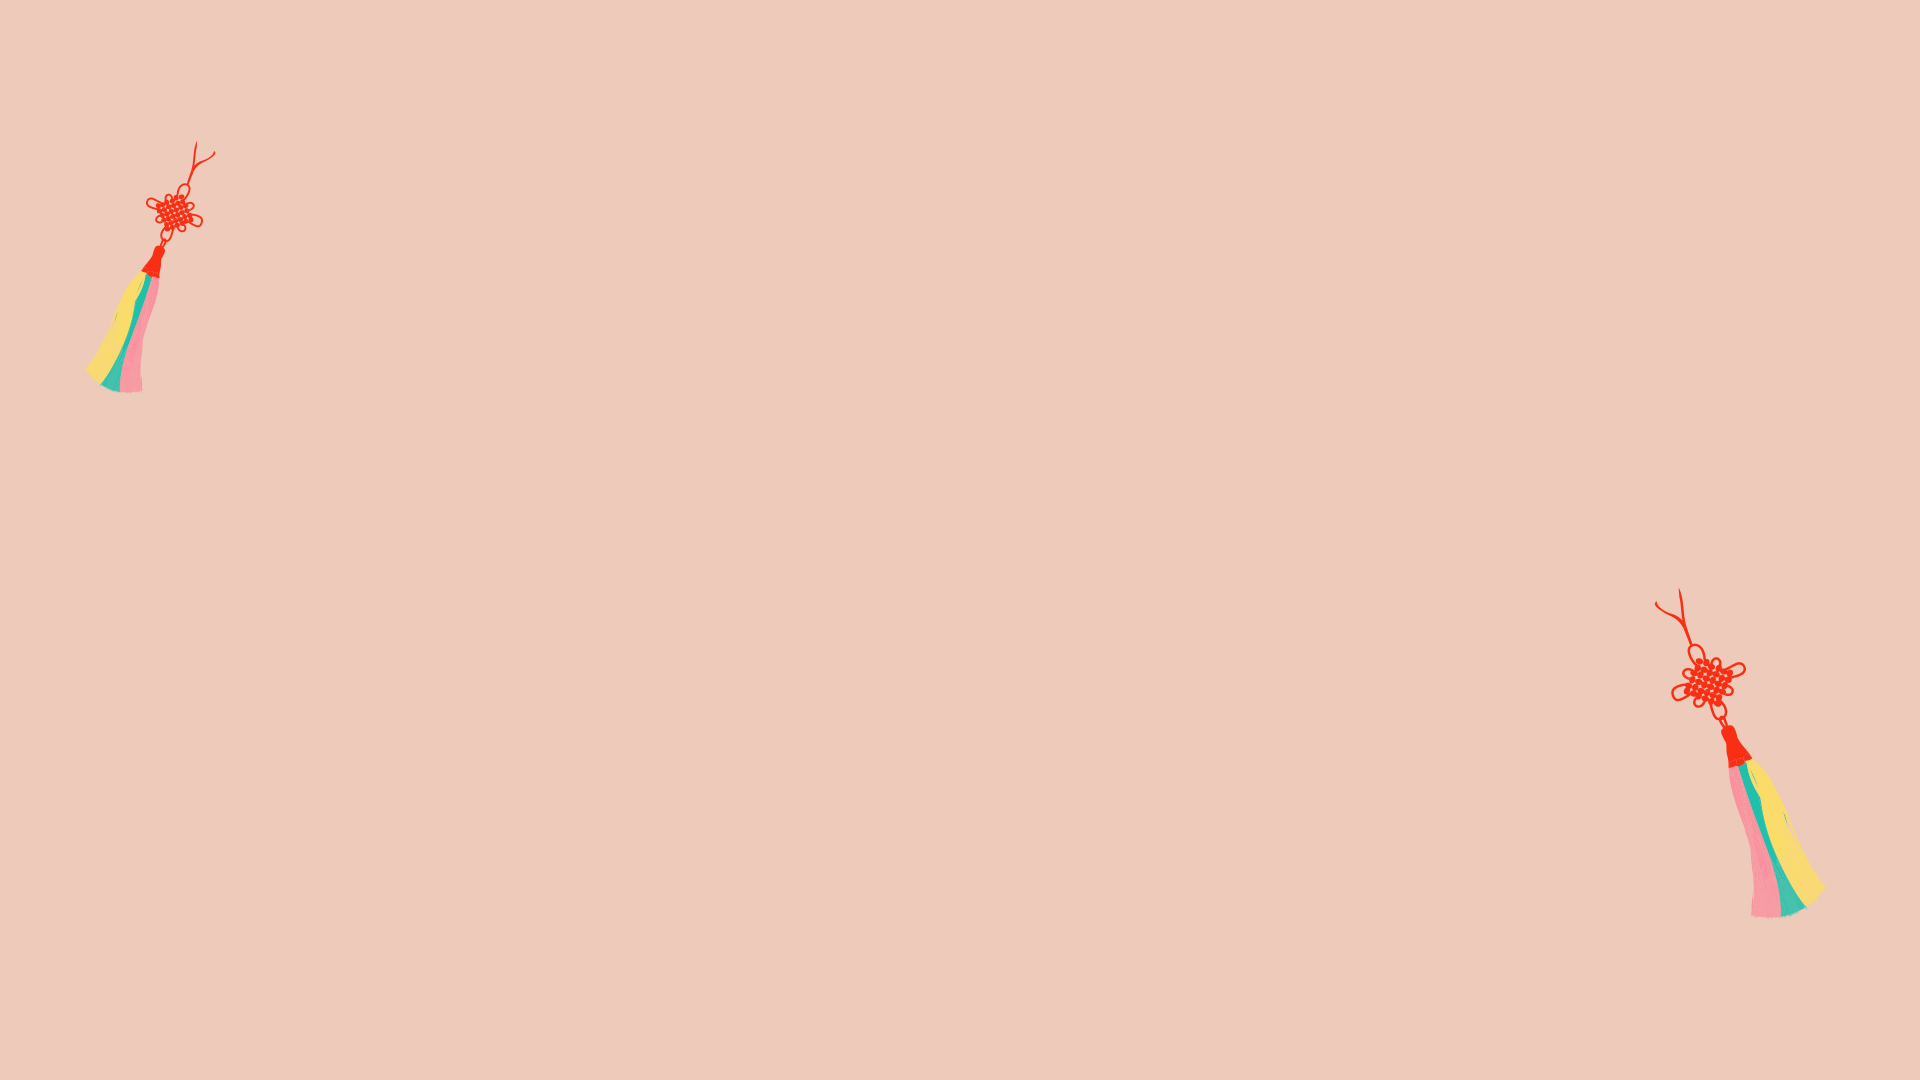
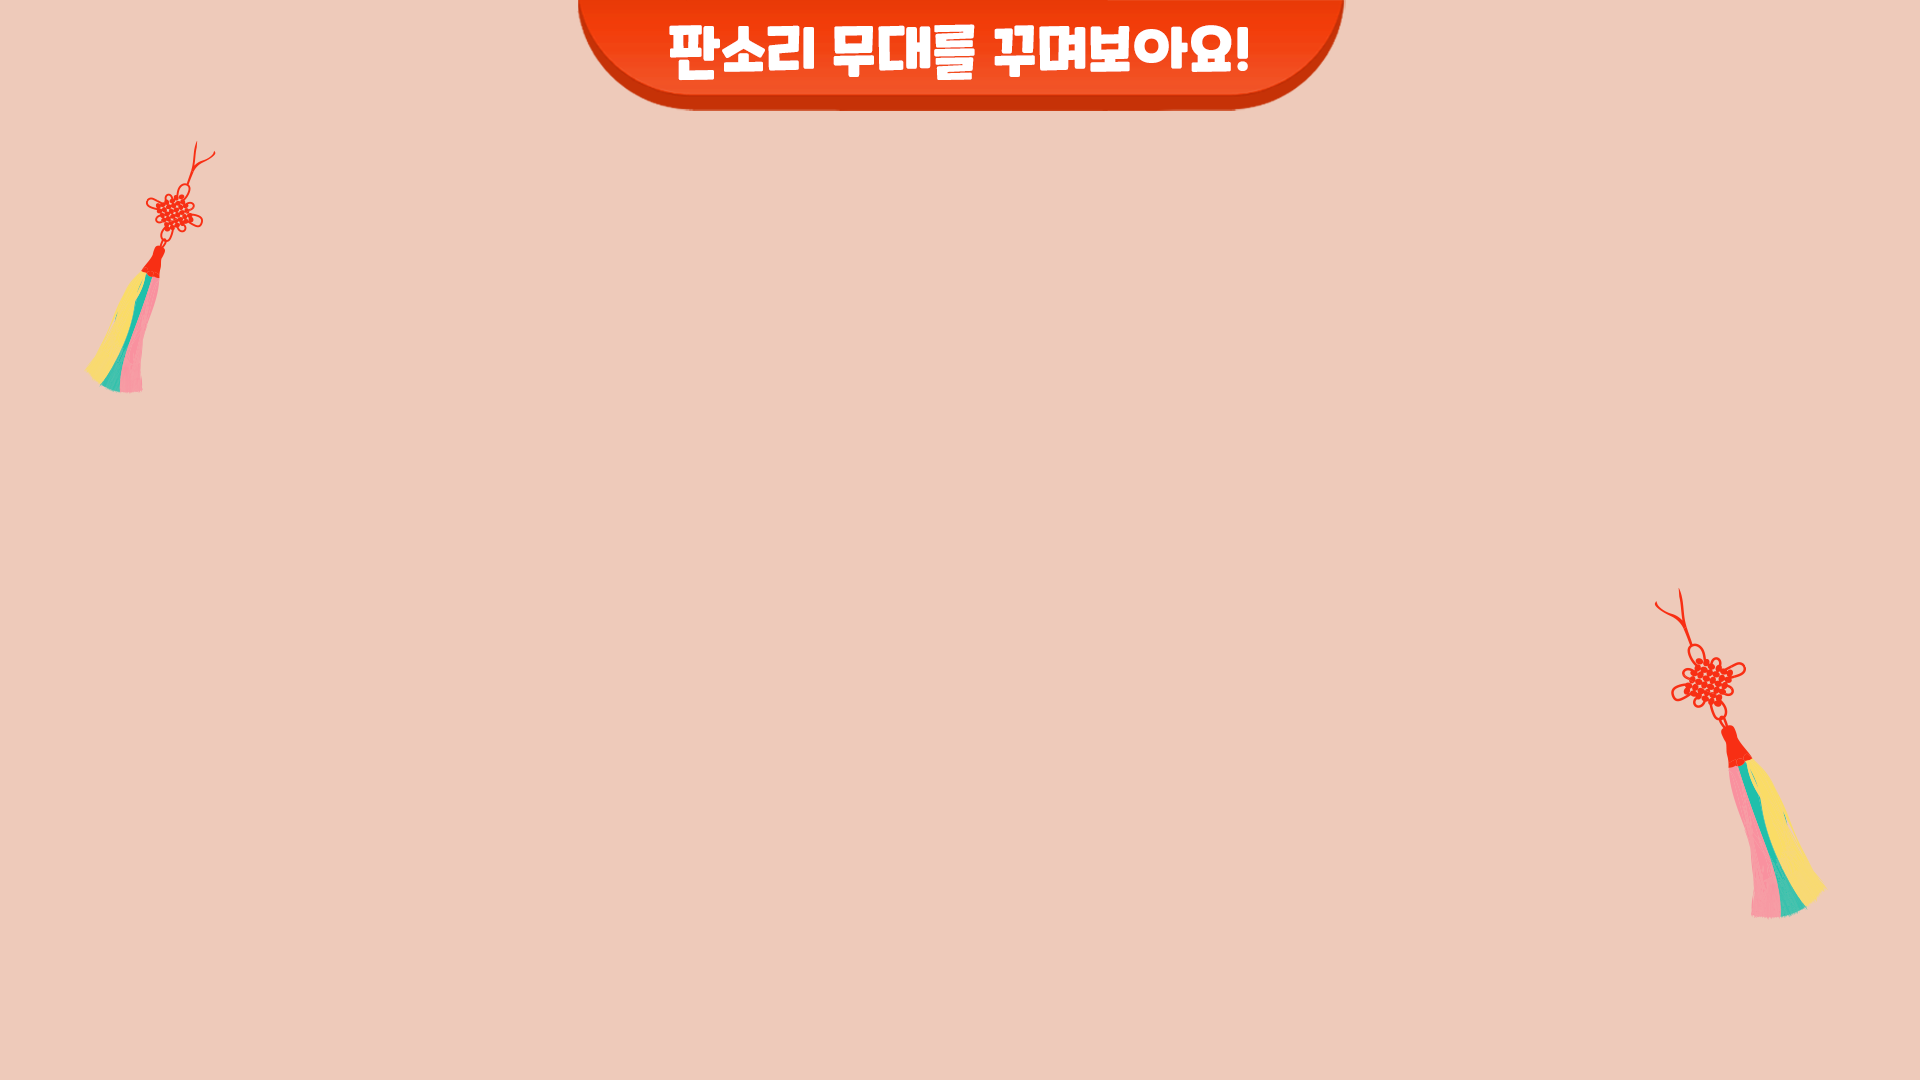
커밋밋

Changed region(s): [[0.2812, 0.0, 0.7188, 0.1222]]

diff --git a/daechwita/css/common.css b/daechwita/css/common.css
@@ -195,7 +195,7 @@ img {
 
 /* finish */
 .finish {
-    display: block;
+    display: none;
     position: absolute;
     top: 0;
     left: 50%;
